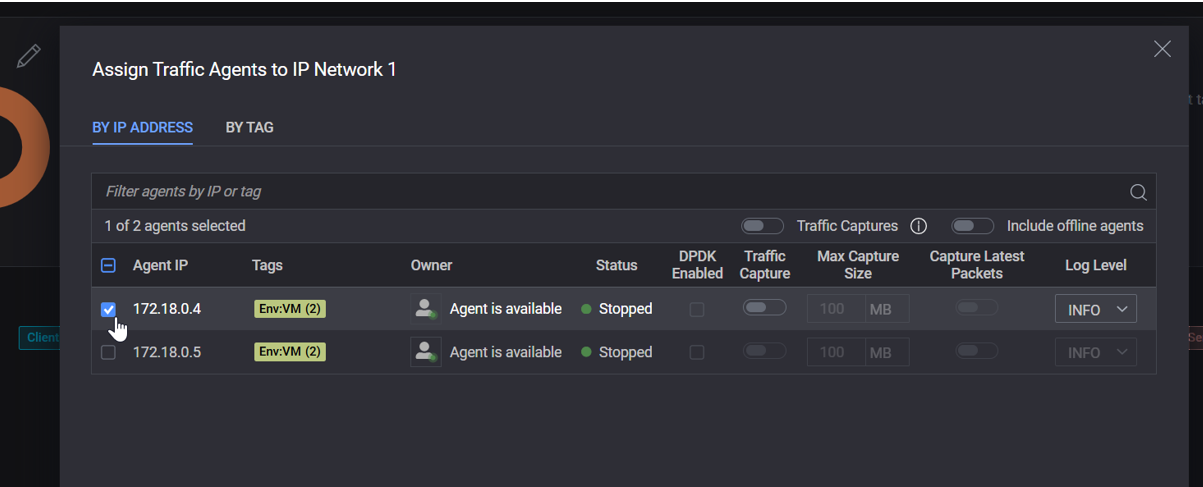
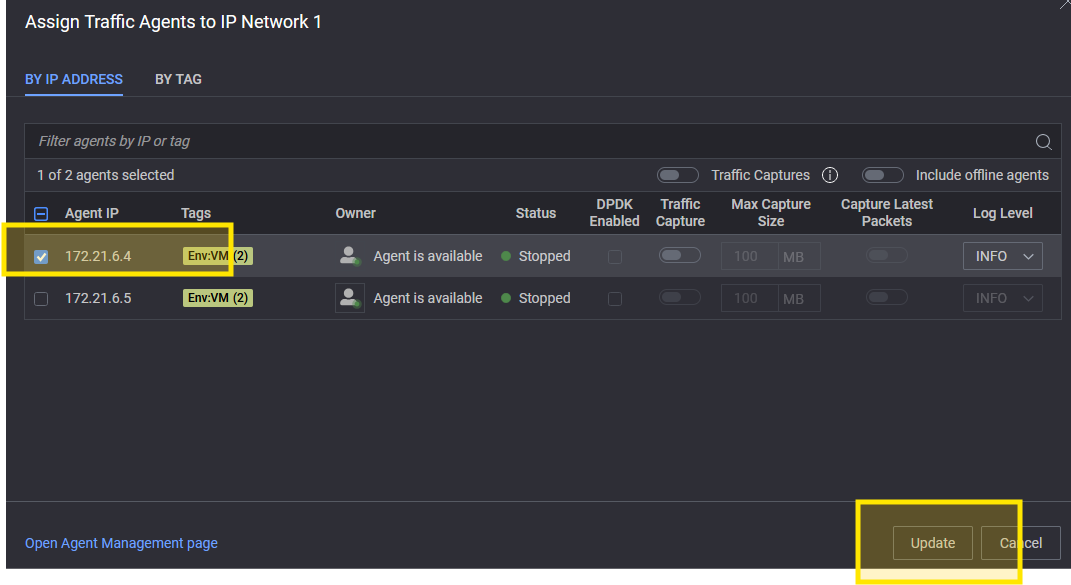
updates to lab-06 readme

diff --git a/lab-06/README.md b/lab-06/README.md
@@ -2,6 +2,7 @@
 
 ## Overview
 In this lab we're going to use [**Cyperf**](https://www.keysight.com/us/en/products/network-test/cloud-test/cyperf.html) to generate http traffic between 2 cloud VMs (Cyperf Agents).
+The goal of the lab is to get familiar with Cyperf architecture and how to deploy Cyperf agents using docker containers. We will also create simple tests to generate mixed traffic between the 2 agents and monitor the traffic using the Cyperf controller UI.
 
 
 ## Prerequisites
@@ -68,16 +69,21 @@ In this case, we will be using **ens6** IP address.
 
 - Log in using the default credentials: Username: `your email address` Password: `Ixia123!`
 
-- After logging in, you’ll see a preconfigured “HTTP Basic Test” test session. Click to open it. 
+- After logging in, you’ll see a preconfigured “lab-06-test” test session. The objective of this test is to generate 100 connections per second using simple HTTP traffic. Click to open it. 
 
 ![alt text](../Docs/images/lab-06/lab6-2.png)
 
-- Add Agents. In the test view, locate the exclamation marks beside the agent slots. Click them to add agents.
+- Then we go to the "ENTERPRISEMIX" section.
 
 ![alt text](../Docs/images/lab-06/lab6-3.png)
 
+- In the test view, locate the exclamation marks beside the agent slots. Click on them to add agents.
+- On the left-hand side, assign the client's port icon.
+- You need to find and assign agents. A search by IP Address will ensure that we won't use someone else's agents. In my case `172.21.6`.
 
-- On the left-hand side, assign the client IP. You should find 2 addresses `172.21.X.4` and `172.21.X.5`, where **X** is your assigned student number. In my example I used 172.18.0.4 while deploying the client docker agent. In your case it should be `172.21.X.4`. Select that and click Update.
+![alt text](../Docs/images/lab-06/lab6-10.png)
+
+- You should find 2 addresses `172.21.X.4` and `172.21.X.5`, where **X** is your assigned student number. In my example I used 172.21.6.4 while deploying the client docker agent. In your case it should be `172.21.X.4`. Select that and click Update.
 
 ![alt text](../Docs/images/lab-06/lab6-4.png)
 
@@ -101,9 +107,35 @@ In this case, we will be using **ens6** IP address.
 
 ![alt text](../Docs/images/lab-06/lab6-9.png)
 
-Your **Cyperf** environment is now configured and ready for traffic validation. You can repeat tests with varying profiles, scale factors, or protocols depending on your learning objectives. 
-1)	Change and add more applications
-2)	Add a security configuration
+
+- We can now make some changes to the test objective for testing throughput and to include more applications to our mix of traffic. Click on top-right **Overview** to go back to the test configuration page, then edit the **Objectives & Timeline** section.
+
+![alt text](../Docs/images/lab-06/lab6-12.png)
+
+- Set the **Primary Objective** to **Throughput** and set the value to **100 Mbps** with a duration of **60** seconds. 
+
+![alt text](../Docs/images/lab-06/lab6-13.png)
+
+
+- Then click on **Applications** to add activate all applications of the mix.
+
+![alt text](../Docs/images/lab-06/lab6-14.png)
+
+- Restart the test by clicking on **START TEST** (blue play icon) to initiate the test and observe the new metrics.
+
+![alt text](../Docs/images/lab-06/lab6-15.png)
+
+- We can now enable the **ATTACK PROFILE** to simulate some DDoS traffic. Go back to the **Overview** page and then click on the **TEST SETTINGS** section. We're adding 2 attack profiles: **Critical Strikes** and **All Dan Gemini AI LLM Prompt Injection**. 
+
+![alt text](../Docs/images/lab-06/lab6-16.png)
+
+- More on the attack profiles can be found if you go and edit the **ATTACK PROFILE** section. There you can find a description for each strike. These attacks will be added to the existing traffic mix. 
+
+![alt text](../Docs/images/lab-06/lab6-17.png)
+
+- Restart the test by clicking on **START TEST** to initiate the test and observe the new metrics.
+
+![alt text](../Docs/images/lab-06/lab6-18.png)
 
 
 ## Cleanup
